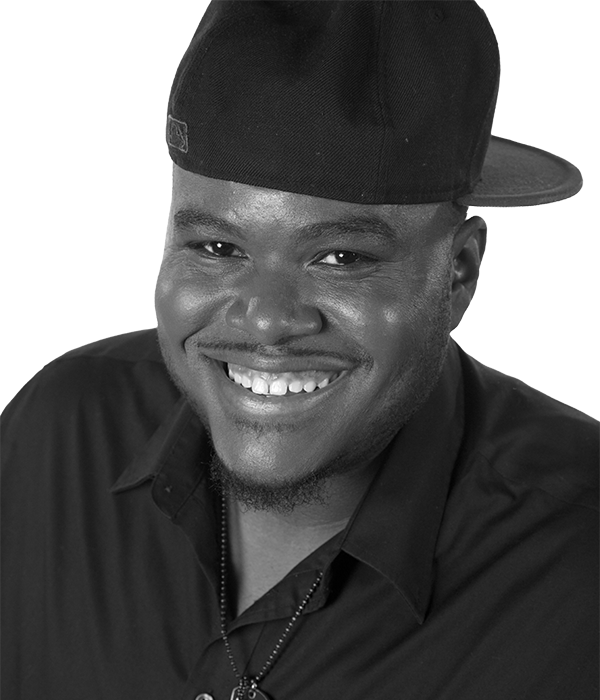
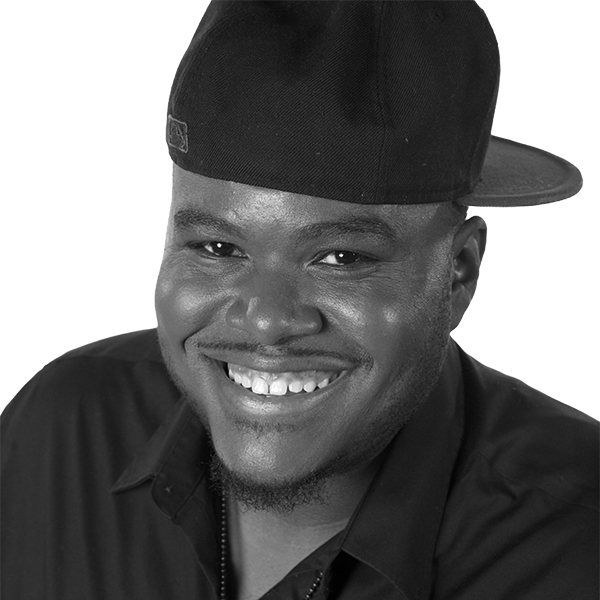
feedback fixes

diff --git a/src/components/Features.tsx b/src/components/Features.tsx
@@ -18,25 +18,25 @@ function Features() {
       title: "Streaming",
       subTitle: "On-Chain Streaming",
       text: " Experience On-Chain Streaming with Ample's Platform. Support your favorite creators and owners directly, knowing that each stream contributes to their success.",
-      image: "/images/feature-screenshot-3.png",
+      image: "/images/mvp-screenshot-3.png",
     },
     {
       title: "Distribution",
       subTitle: "Creators and Consumers working together",
       text: "Elevate Your Content with AMPLE. Upload Top-Tier Content, Mint NFTs, and Automatically Reach the Streaming Platform and NFT Marketplace.",
-      image: "/images/feature-screenshot-2.png",
+      image: "/images/mvp-screenshot-2.png",
     },
     {
       title: "Purchasing and Financing",
       subTitle: "Simplified Payouts and Ownership with Smart Contracts",
       text: "Real-Time Earnings and Transparency: With on-chain autopay and smart contracts, creators and owners receive instant payouts, while record labels, production companies, fans, and creators all reap the financial and legal benefits of our transparent distribution network and dashboard.",
-      image: "/images/feature-screenshot-1.png",
+      image: "/images/mvp-screenshot-1.png",
     },
     {
       title: "Create your Portfolio",
       subTitle: "Let People follow the work you Create or Finance",
       text: "Build Your Following and Amplify Your Collections: Showcase Your Portfolio, NFTs for Sale, and Supported Projects on Your Community Profile. Create a Network Effect for Your Name or Brand and Connect with a Thriving Community.",
-      image: "/images/feature-screenshot-4.png",
+      image: "/images/mvp-screenshot-4.png",
     },
   ];
 
@@ -44,11 +44,11 @@ function Features() {
     <Box sx={{ width: "100vw", backgroundColor: "#131321" }}>
       <Box
         sx={{
-          padding: "30px 120px",
+          padding: "30px 120px 60px 120px",
           display: "flex",
           flexDirection: "column",
           justifyContent: "center",
-          gap: "0px",
+          gap: "40px",
           animation: `${fadeIn} 2s `,
         }}
       >
@@ -129,7 +129,7 @@ function Features() {
                 flexDirection: "row",
                 justifyContent: "center",
                 alignItems: "center",
-                height: ["400px", "450px", "450px", "500px"],
+                height: ["200px", "250px", "250px", "350px"],
                 //   animation: `${wave} 1s ease-in-out infinite alternate`,
               }}
             >

diff --git a/src/components/Header.tsx b/src/components/Header.tsx
@@ -1,5 +1,5 @@
 import React from "react";
-import { Box, Image } from "theme-ui";
+import { Box, Image, Text } from "theme-ui";
 import { BsTwitter } from "react-icons/bs";
 
 import { SiDiscord } from "react-icons/si";
@@ -53,7 +53,7 @@ function Header() {
             display: "flex",
             flexDirection: "row",
             alignItems: "center",
-            gap: "30px",
+            gap: ["20px", "20px", "20px", "30px"],
             fontSize: "14px",
           }}
           className={inter.className}
@@ -75,6 +75,22 @@ function Header() {
                 cursor: "pointer",
               }}
             />
+          </Link>
+          <Link
+            href="https://ample.docsend.com/view/ddfv59hrnw3fgnby"
+            target="blank"
+          >
+            <Text
+              sx={{
+                color: "rgba(240,240,240,1)",
+                fontWeight: "700",
+                fontSize: "16px",
+                letterSpacing: "0.04em",
+                lineHeight: "2rem",
+              }}
+            >
+              Pitch Deck
+            </Text>
           </Link>
         </Box>
       </Box>

diff --git a/src/components/Team.tsx b/src/components/Team.tsx
@@ -76,7 +76,7 @@ function Team() {
         alignItems: "center",
         justifyContent: "center",
         gap: "40px",
-        padding: "30px 50px",
+        padding: ["30px 20px", "30px 20px", "30px 20px", "30px 50px"],
         backgroundColor: "#0d1223",
       }}
     >
@@ -120,8 +120,8 @@ function Team() {
               src={member.image}
               style={{
                 borderRadius: "16px",
-                width: "170px",
-                height: "190px",
+                width: "200px",
+                // height: "190px",
                 background:
                   "linear-gradient(135deg, hsla(0, 96%, 69%, 0.2) 0%, hsla(225, 84%, 64%, 0.2) 100%)",
               }}

diff --git a/src/components/Investors.tsx b/src/components/Investors.tsx
@@ -10,7 +10,7 @@ function Investors() {
         alignItems: "center",
         justifyContent: "center",
         gap: "30px",
-        padding: "0px 10px 90px 10px",
+        padding: "20px 10px 90px 10px",
         backgroundColor: "#131321",
         width: "100%",
       }}
